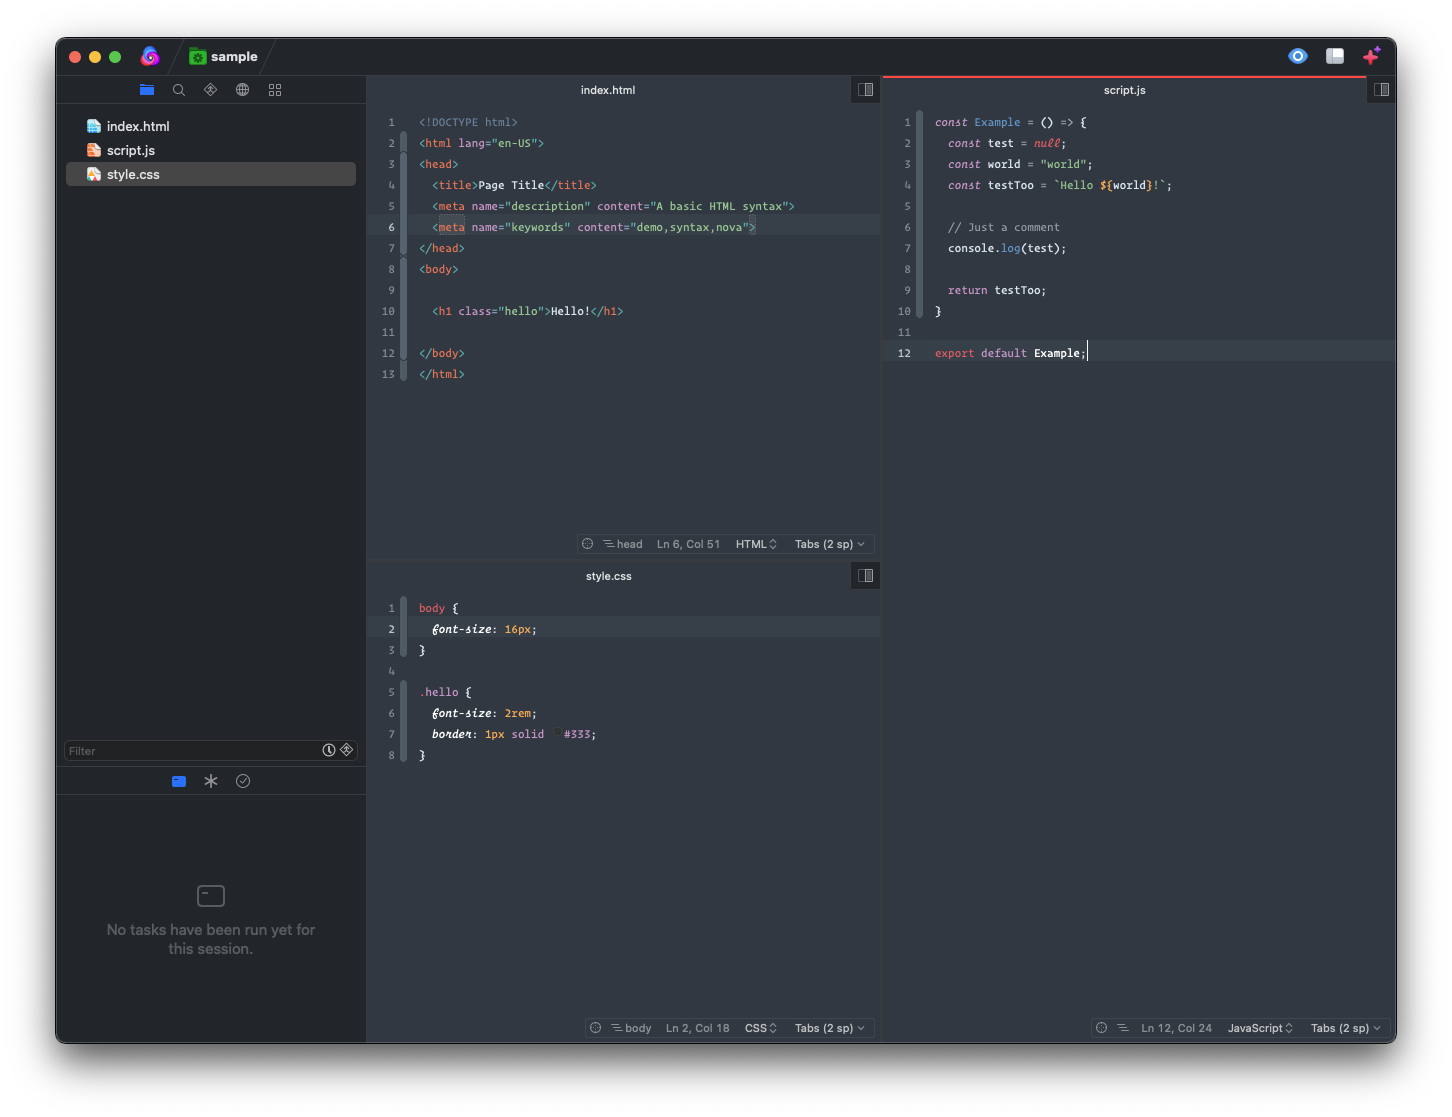
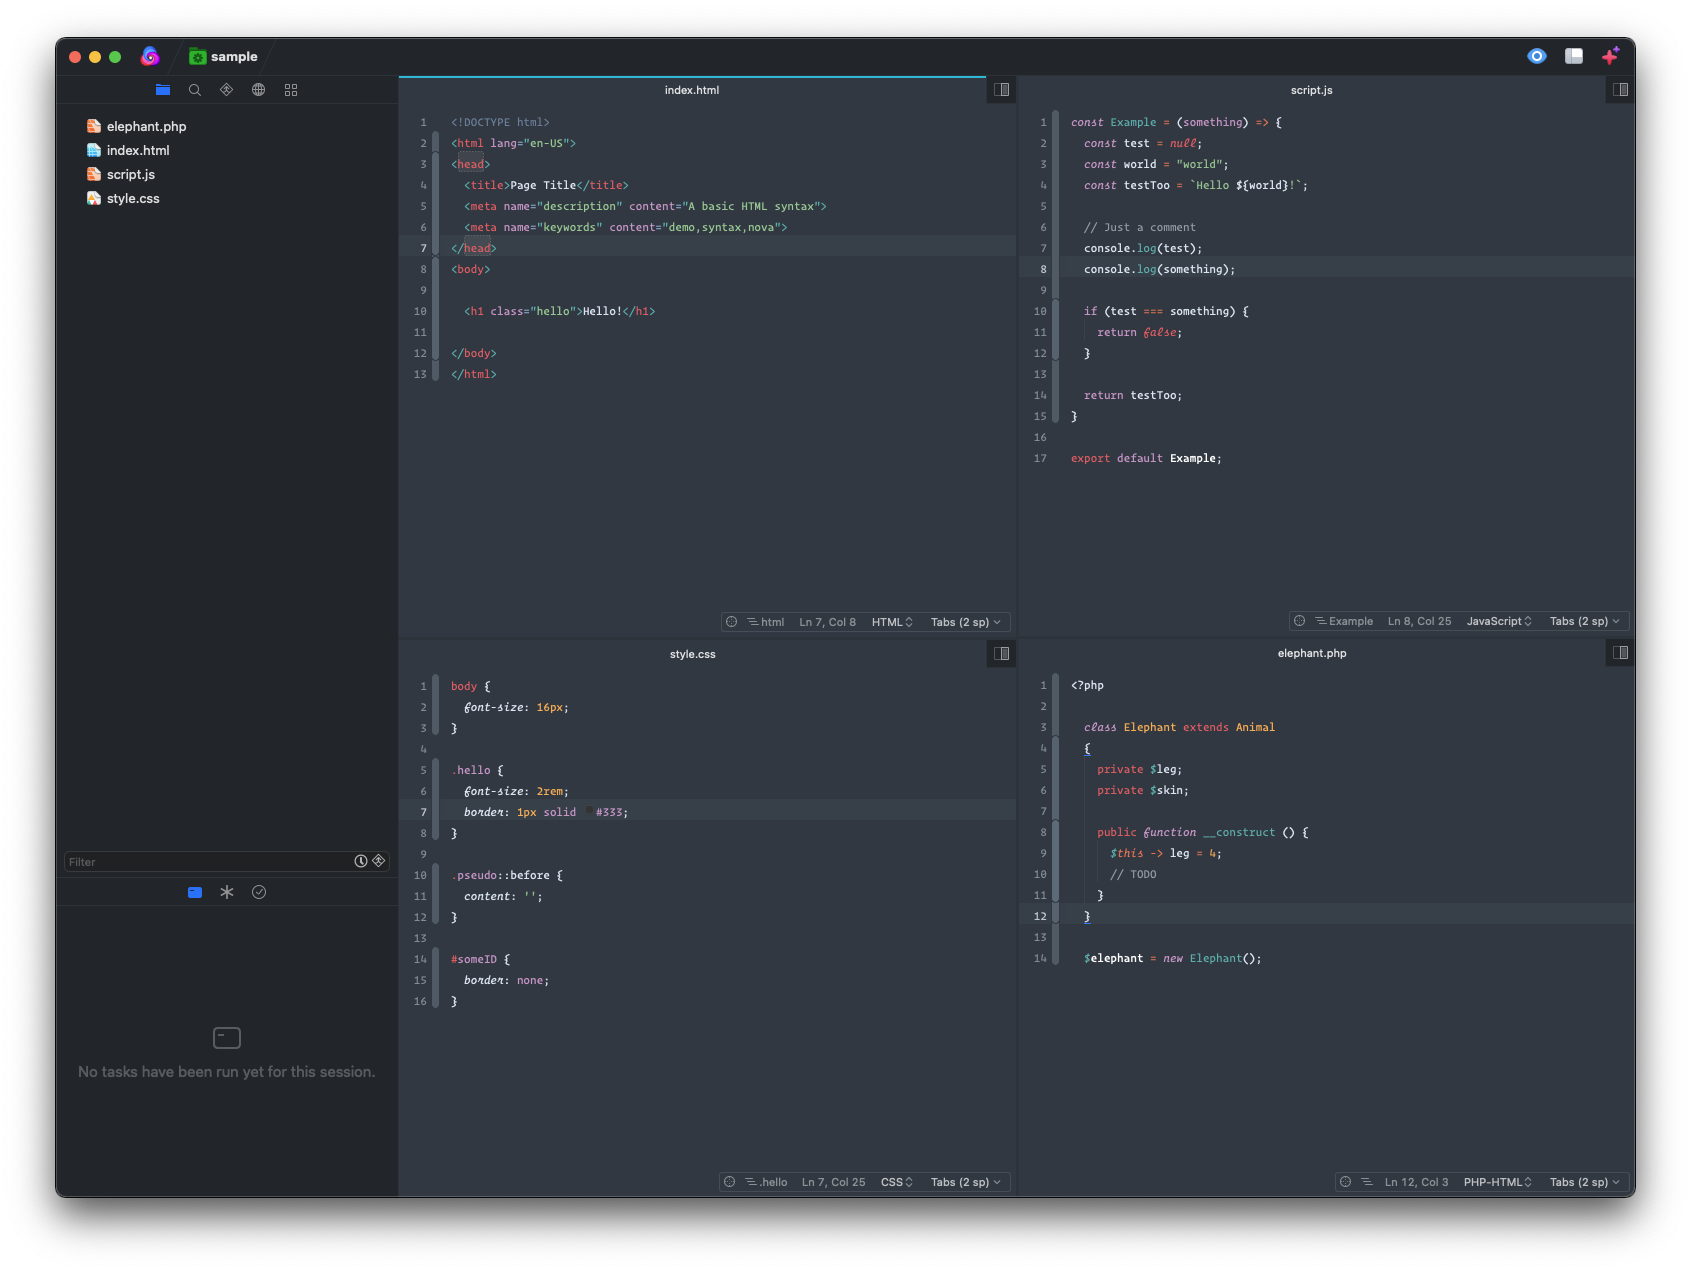
Polishing

diff --git a/Themes/Mariana Theme.css b/Themes/Mariana Theme.css
@@ -24,7 +24,7 @@ Silver:             hsl(216, 11%, 66%);
  * Window styles
  */
 meta.window {
-    border-color: hsla(0, 0%, 100%, 0.1);
+    border-color: hsl(207, 16%, 20%);
     background-color: hsl(207, 12%, 15%);
 }
 meta.titlebar {
@@ -67,7 +67,7 @@ meta.textfield.highlighted {
  */
 meta.document {
     background-color: hsl(207, 16%, 22%);
-    border-color: hsla(0, 0%, 100%, 0.1);
+    border-color: hsl(208, 10%, 34%);
 }
 
 meta.document.button {
@@ -140,7 +140,7 @@ bracket {
 
 /* ->, => */
 operator {
-    color: hsl(216, 11%, 66%);
+    color: hsl(9, 88%, 64%);
 }
 invalid {
     background-color: hsl(9, 88%, 64%);
@@ -185,7 +185,8 @@ keyword.self.prefix {
 
 /* Values */
 value.boolean {
-    color: hsl(304, 35%, 69%);
+    color: hsl(353, 81%, 62%);
+    font-style: italic;
 }
 value.null {
     color: hsl(353, 81%, 62%);
@@ -224,7 +225,7 @@ identifier.property.prefix {
 identifier.decorator,
 identifier.function,
 identifier.method {
-    color: hsl(205, 53%, 57%);
+    color: hsl(178, 45%, 48%);
 }
 identifier.key {
     color: hsl(304, 35%, 69%);
@@ -256,7 +257,7 @@ string-keyword {
     color: hsl(30, 100%, 90%);
 }
 string-template {
-    color: hsl(30, 100%, 65%);
+    color: hsl(210, 49%, 90%);
 }
 regex {
     color: hsl(30, 100%, 65%);
@@ -308,11 +309,14 @@ definition.struct.name {
 
 /* Members */
 definition.property.name {
-    color: hsl(205, 53%, 57%);
+    color: hsl(210, 49%, 90%);
+}
+definition.property.prefix {
+    color: hsl(178, 45%, 48%);
 }
 definition.function.name,
 definition.method.name {
-    color: hsl(178, 45%, 49%);
+    color: hsl(178, 45%, 48%);
 }
 
 /* Tags */
@@ -320,13 +324,13 @@ tag {
     color: hsl(179, 44%, 47%);
 }
 tag.name {
-    color: hsl(9, 88%, 64%);
+    color: hsl(353, 81%, 62%);
 }
 tag.framework {
-    color: hsl(0, 0%, 100%);
+    color: hsl(210, 49%, 90%);
 }
 tag.framework.name {
-    color: hsl(0, 0%, 100%);
+    color: hsl(210, 49%, 90%);
 }
 tag.attribute.name {
     color: hsl(304, 35%, 69%);
@@ -361,7 +365,7 @@ style.selector.element {
     font-weight: bold;
 }
 style.selector.identifier.id {
-    color: hsl(32, 90%, 70%);
+    color: hsl(304, 35%, 69%);
 }
 style.selector.identifier.class {
     color: hsl(304, 35%, 69%);
@@ -370,10 +374,10 @@ style.selector.pseudoclass {
     color: hsl(304, 35%, 69%);
 }
 style.selector.pseudoelement {
-    color: hsl(32, 90%, 70%);
+    color: hsl(210, 49%, 90%);
 }
 style.attribute.name {
-    color: hsl(0, 0%, 100%);
+    color: hsl(210, 49%, 90%);
     font-style: italic;
 }
 style.value.number {
@@ -389,5 +393,5 @@ style.value.color.named {
     color: hsl(304, 35%, 69%);
 }
 style.value.identifier.function {
-    color: hsl(160, 80%, 55%);
+    color: hsl(210, 49%, 90%);
 }

diff --git a/README.md b/README.md
@@ -1,10 +1,10 @@
 # Mariana Nova
 
-Sublime Text 4 default theme ported. Supports Italics.
+Unofficial Sublime Text 4 theme port for [Nova](https://nova.app). Supports Italics.
 
 ![screenshot](https://github.com/widersky/nova-mariana-theme/blob/main/Images/screenshot.png?raw=true)
 
-Font used: Operator Mono
+Font used on screenshot above: Operator Mono
 
 ## Issues?
 

diff --git a/CHANGELOG.md b/CHANGELOG.md
@@ -1,3 +1,11 @@
+## Version 1.0.3
+
+* Adjusted borders color
+* Fixed JS template literals and HTML tags highlighting
+* Added PHP example to screenshot
+* Added few code lines to show syntax better
+* Updated Readme
+
 ## Version 1.0.2
 
 * Some small adjustments
